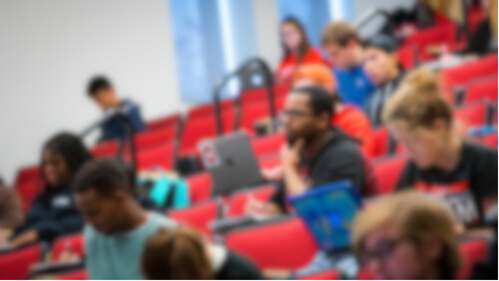
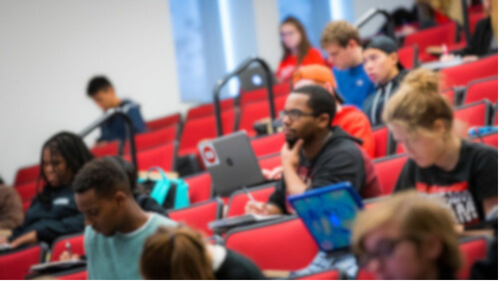
fixed the blur on the images and filled out student life

diff --git a/index.html b/index.html
@@ -18,6 +18,9 @@
   <link rel="preconnect" href="https://fonts.gstatic.com" crossorigin>
   <link href="https://fonts.googleapis.com/css2?family=Rasa:ital,wght@0,300..700;1,300..700&display=swap"
     rel="stylesheet">
+    <link rel="preconnect" href="https://fonts.googleapis.com">
+<link rel="preconnect" href="https://fonts.gstatic.com" crossorigin>
+<link href="https://fonts.googleapis.com/css2?family=Lalezar&display=swap" rel="stylesheet">
 
   <link rel="icon" href="imgs/download.png" type="image/x-icon" />
 
@@ -103,9 +106,28 @@
           <a href="https://newbrunswick.rutgers.edu/student-experience" target="_blank" class="title-heading" >Student Life</a></h5>
         </div>
         <div class="col-12 col-md-6 white d-flex align-items-center">
-          <p class="description p-3">Little Bird Toys, established in 2018, brings families handcrafted wooden toys
-            designed to spark imagination and slow down playtime. Our heirloom-quality collection is built from
-            sustainable materials and made to last a lifetime, fostering connections between generations.</p>
+          <p class="description p-3">
+            <ul class="description">
+              <li>
+                Bustling and vibrant community of diverse individuals
+              </li>
+              <li>
+                750 student organizations
+              </li>
+              <li>
+                80 fraternities and sororities
+              </li>
+              <li>
+                Is considered a "Big Ten" University
+              </li>
+              <li>
+                One of the nations most diverse universities
+              </li>
+              <li>
+                  Endless activties and opportunities to connect with new people
+              </li>
+            </ul>
+          </p>
         </div></div>
 
 

diff --git a/style.css b/style.css
@@ -95,7 +95,7 @@ opacity: 100%;
 }
 .alu {
   height:300px;
-  background: url(imgs/aca.png);
+  background: url(imgs/alumni.png);
   background-repeat: no-repeat;
   background-size: cover;
   background-position: center, center;
@@ -108,13 +108,14 @@ opacity: 100%;
 
 
 .title-heading {
-  font-family: "Old Standard TT", serif;
-  font-weight: 700;
-  color:rgb(0, 0, 0);
-  font-size: clamp(4rem, 7vw, 400px);
+  font-family: "Rasa", serif;
+  font-weight: 900;
+  opacity: 89%;
+  color:#ffffff;
+  font-size: clamp(4rem, 5vw, 400px);
   text-decoration-line: underline;
   text-decoration-skip-ink: none;
-  text-decoration-color: #ff0000;
+  text-decoration-color: #cc0033;
   text-decoration-thickness:3px;
 
 }
